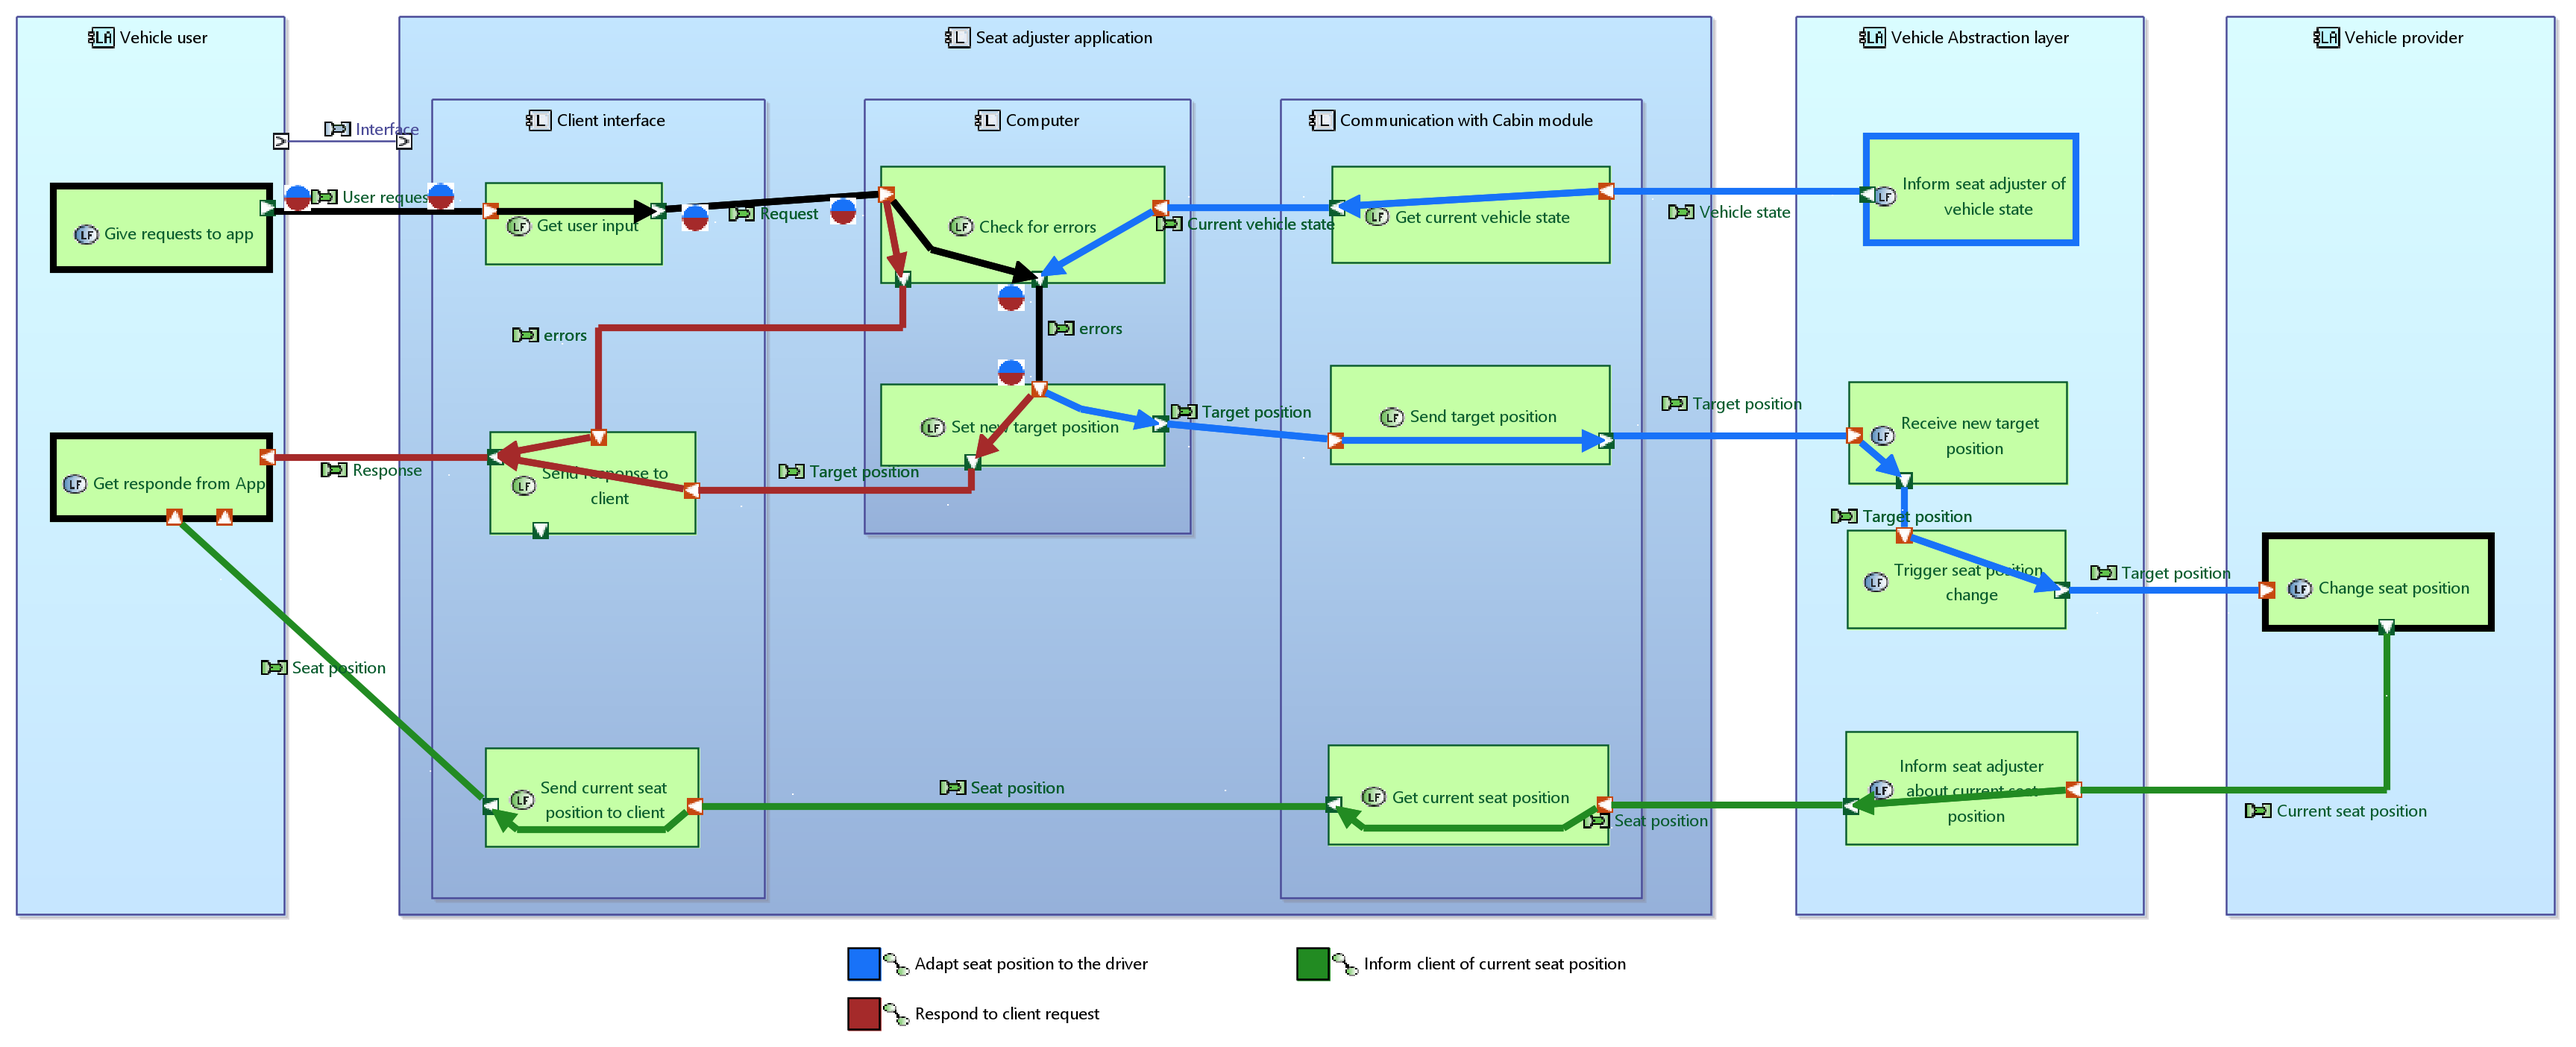
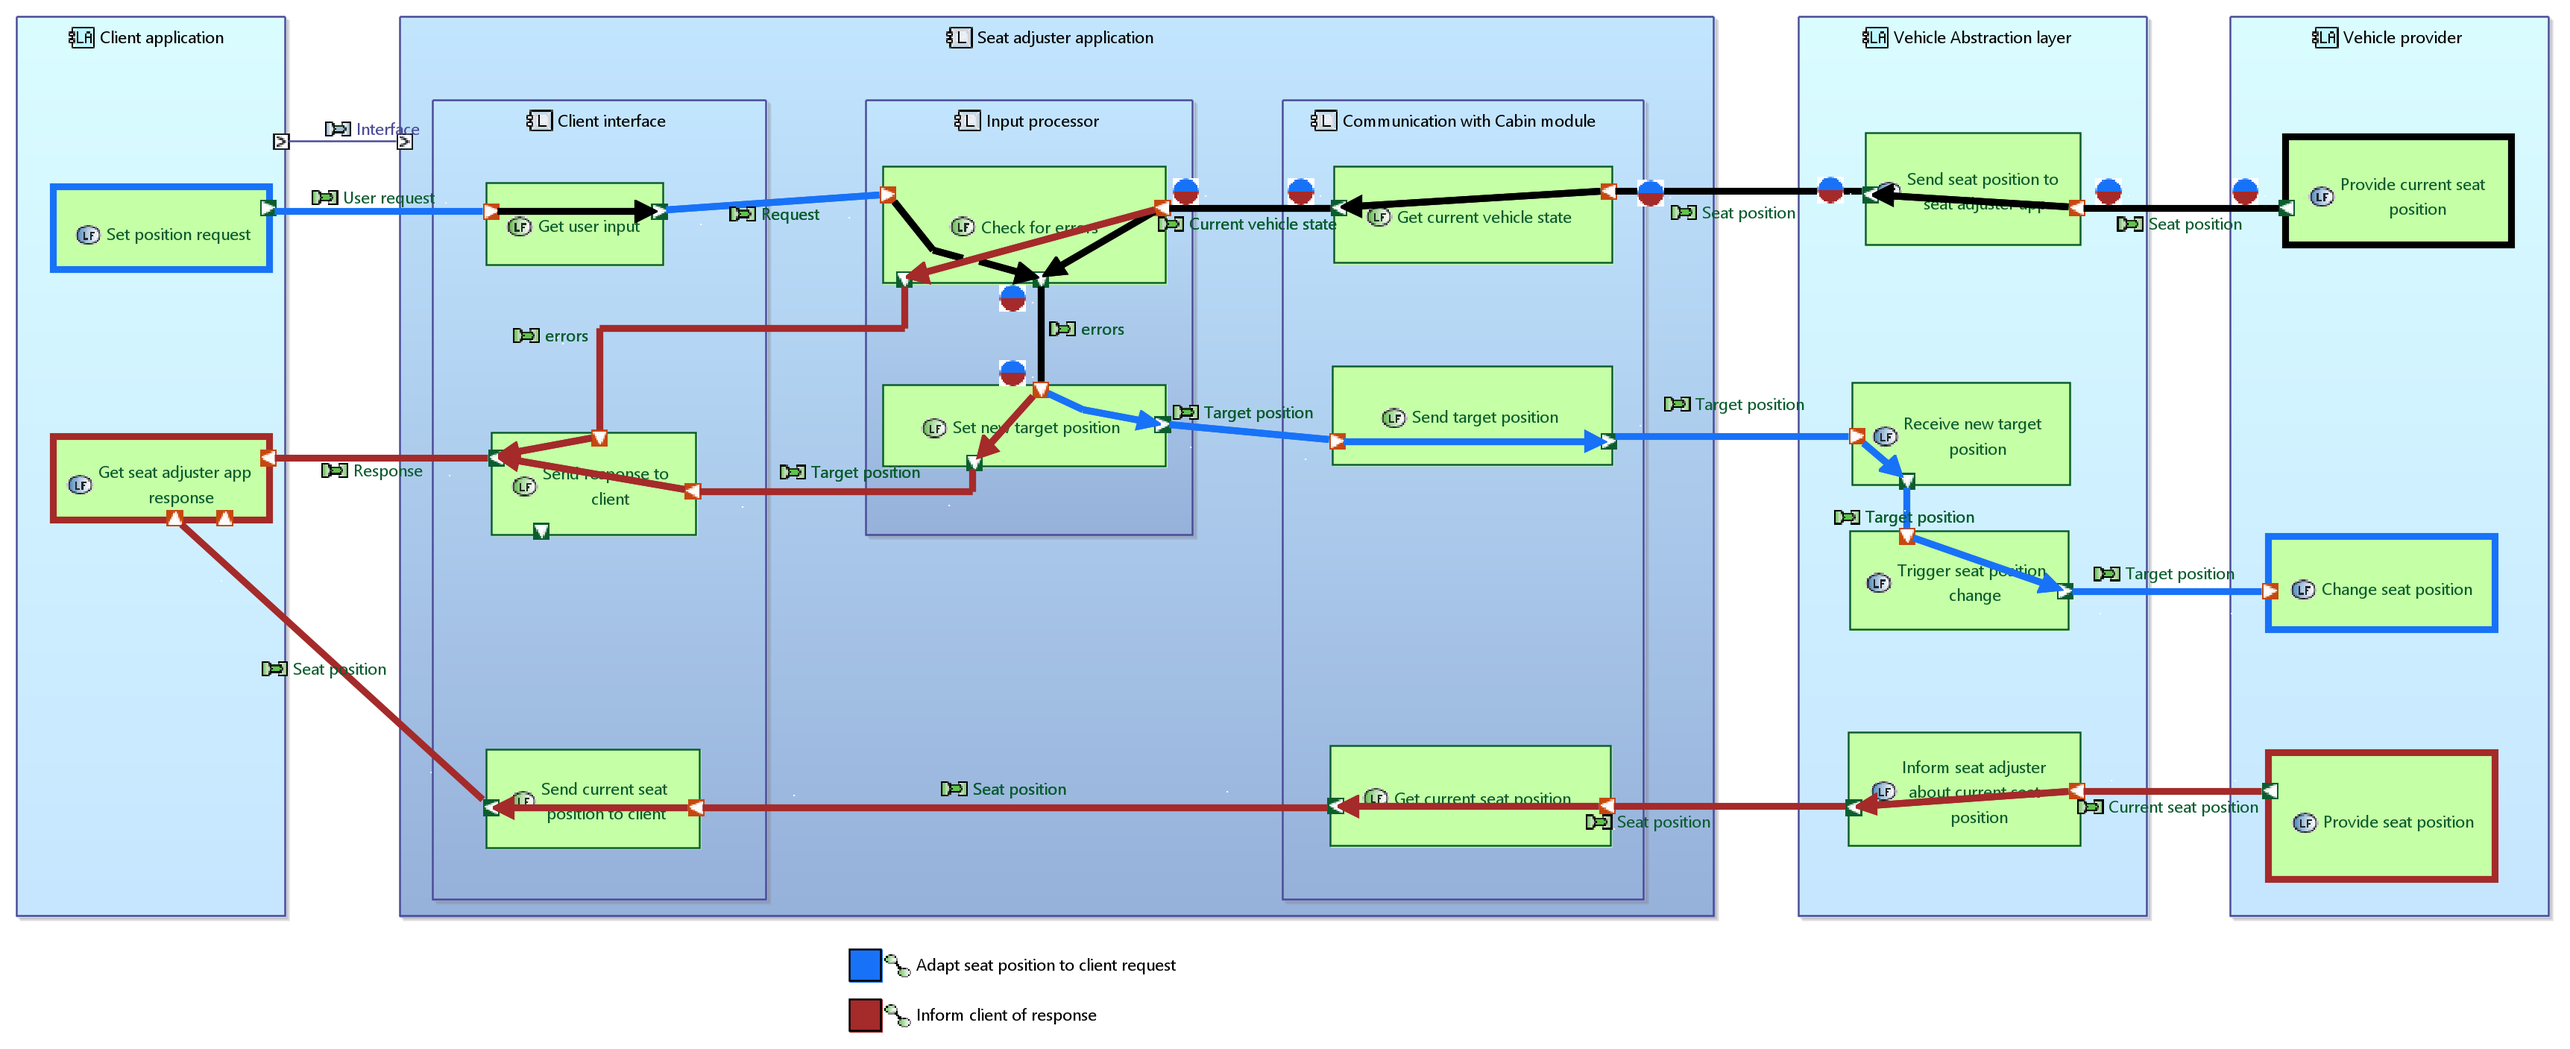
Improved Capella architecture model

diff --git a/modeling-the-companion-application.md b/modeling-the-companion-application.md
@@ -36,19 +36,21 @@ When starting the development of an application such as this one, you can use th
 
 ### Operational Analysis
 
-The companion application developed in this blueprint is a seat adjuster. The main user need here is to adapt the seat position based on a client's request. In the Arcadia methodology, this user need is captured in the Operational analysis, along with the main actors, i.e. stakeholders of the considered cases.
+The companion application developed in this blueprint is a seat adjuster. The main user need here is to adapt the seat position based on a client's request. In the Arcadia methodology, this requirement is captured in the Operational analysis, along with the main actors, i.e. stakeholders of the considered cases, who will interact with the system to achieve missions, goals and objectives.
 
-The Operational Analysis for this tutorial, identifies two Operational entities: A user wanting to adapt the position of the seat, and the vehicle that must react to the user's input. The analysis can be summarized by the Operational Architecture Diagram shown below. Note that, at this stage, the scope of the application is not defined yet, so as to keep it open.
+The Operational Analysis for this tutorial, identifies two Operational actors corresponding to two users, who will want to have the seat position adapted to their profile. One wants to give this instruction while seated inside the car, and the other remotely. Another Operational Entity is the vehicle, which must react to the user's input. The analysis can be summarized by the Operational Architecture Diagram shown below. Note that, at this stage, the scope of the application to be designed (or system) is not defined yet, so as to keep it open.
 
 ![Operational analysis](./img/operational-architecture-blank.png)
 
 ### System Analysis
 
-In the Arcadia methodology, the System Analysis aims at refininf the Operational Analysis, and defining the companion application's boundaries, and the functions it will perform for the stakeholder. At this stage, we focus on what the systmem will do, in a solution-neutral way.
+In the Arcadia methodology, the System Analysis aims at refining the Operational Analysis, and defining the Sytem of Interest's (here the Companion application) boundaries, namely the functions it will perform for the stakeholder. At this stage, the System is studied as a black box: we focus on what the system will do, in a solution-neutral way. 
 
-The diagram below from the Capella model represents these features at system level (the full Capella model can be found in folder "Seat adjuster application architecture"). It now introduces the System of interest, here the companion application, as an entity, whereas the Operational Analysis voluntarily leaves it out. It also defines a first, high-level allocation of functions to each entity.
+The diagram below from the Capella model represents these features at system level (the full Capella model can be found in the "Seat adjuster application architecture" folder). It now introduces the System of interest, here the companion application, as an entity, as opposed to the Operational Analysis where we voluntarily did not define it. It also defines a first, high-level allocation of functions to each entity.
 
-While defining the application's own capabilities in Capella's System Analysis level, we also determine that the application can accept or refuse the request in certain conditions, for instance, while the vehicle is moving. 
+At this stage, we decided to add a Client Application between the users and Companion Application, that will gather the inputs from the users and forward them to the Companion Application. This Client Application can for instance be an app running on a user's phone, or on the car's board computer. This addition corresponds to a design decision: The Companion Application will not be responsible for providing an interface to the users, but will only get standardized inputs from another application.
+
+While defining the Companion Application's own capabilities in Capella's System Analysis level, we also determine that the application can accept or refuse the request in certain conditions, for instance, while the vehicle is moving. 
 
 The diagram below from the Capella model represents these features at system level (the full Capella model can be found in folder "Seat adjuster application architecture").
 
@@ -57,9 +59,10 @@ The diagram below from the Capella model represents these features at system lev
 ### Logical Architecture
 
 After defining the application's functions in the System Analysis perspective of Arcadia, the Logical Architecture perspective helps design and define an architecture that enables the realization of these functions. 
-This perspective provides a first break-down of the system and a notional view of components without taking care yet of the technological detail (i.e. we do not yet try to decide what exactly each component will be).
+This perspective provides a first break-down of the system and a notional view of components without taking care yet of the technological detail (i.e. we do not yet try to decide what exactly each component will be, as this will be done in the next step). We also allocate the Functions to the Logical Components that we defined.
 
-In the Logical Architecture perspective, we give a first break-down of the application's architecture, i.e. of the way it will be constructed, and how the functions will be allocated to each part of the application.
+In this instance, we define three Logical Components: One will be responsible for commuincating with the Client App, one will manage the internal logics of the Companion Application (Input processor), and the last one will be in charge of communicating with the Vehicle. The definition of these components also goes with a further refinement of the functions.
+
 Note that, at this stage of the architecture design, we make the decision to break down the Actor "Vehicle" from the System Analysis into two Logical Actors, "Vehicle Abstraction Layer" and "Vehicle provider". 
 
 ![Logical architecture](./img/logical-architecture-blank.png)
@@ -68,7 +71,9 @@ Note that, at this stage of the architecture design, we make the decision to bre
 
 Finally, based on the abstract breakdown realized in the Logical Architecture, we can define the concrete Physical Components that will compose the system (despite their naming, Physical Components can be software as well as physical parts).
 
-The goal of the Physical Architecture is to extensively describe the final solution. It is at this stage that we can decide, for instance, that the "Vehicle Abstraction Layer" defined in the Logical Architecture will be a KUKSA Databroker, or that interface of the application with the user will be composed of MQTT Topics, and will communicate with the client through JSON requests etc.
+The goal of the Physical Architecture is to extensively describe the final solution, specifying in particular the specific technologies that will be used. It is at this stage that we can decide, for instance, that the "Vehicle Abstraction Layer" defined in the Logical Architecture will be a KUKSA Databroker, or that interface of the application with the user will be composed of MQTT Topics, and will communicate with the client through JSON requests etc.
+
+Once again, the definition of these Physical Components can go hand-in-hand with further refinement, or even the addition of some Functions. For example, as we now defined that the Companion Application will use MQTT, we also need to add Functions corresponding to the subscriptions to the relevant MQTT topics, that will take place at the initialization of the app.
 
 ![Physical architecture](./img/physical-architecture-blank.png)
 
